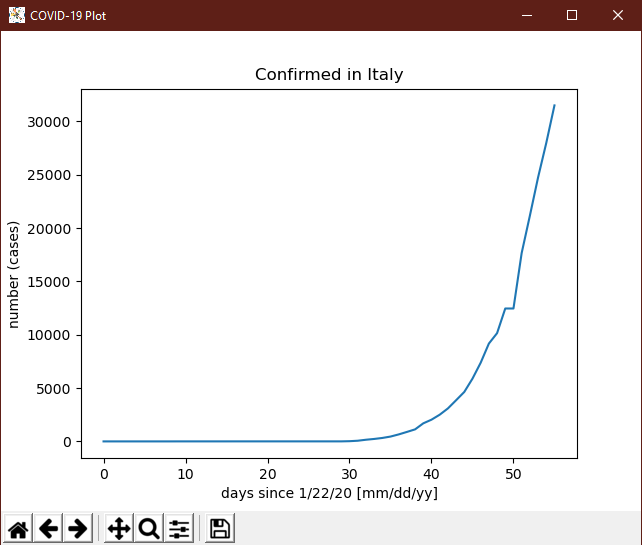
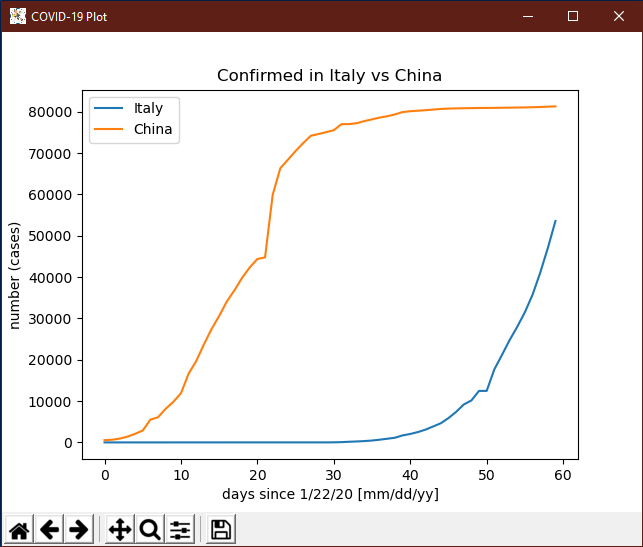
add option to compare countries

diff --git a/covid_plot.py b/covid_plot.py
@@ -9,7 +9,7 @@ path = "csse_covid_19_data/csse_covid_19_time_series/"
 filename = "time_series_19-covid-"
 
 #global vars
-data = []
+data = {}
 header = []
 
 # PARSE USER INPUT
@@ -19,7 +19,7 @@ def parse_user():
         parser.add_argument("-np", "--no-plot", action='store_true', help="do not plot the data")
         parser.add_argument("-l", "--log", action='store_true', help="plot logarithmic axis")
         parser.add_argument("-f", "--file", help="print data to this file")
-        parser.add_argument("-c", "--country", required=True, help="specify country as in data")
+        parser.add_argument("-c", "--country", required=True, action="append", help="specify country as in data. If you provide multiple country flags this will go into comparison mode.")
         parser.add_argument("-p", "--province", default="", help="specify province in the chosen country")
         parser.add_argument("-cy", "--category", default="confirmed", help="specify a category [confirmed, deaths,recovered]")
 
@@ -55,22 +55,28 @@ def get_data(category, country, province):
                 line_count = 0
                 for row in csv_reader:
                         if line_count == 0:
-                                header = row #f"Column names are {', '.join(row)}"
+                                header = row
                         else:
-                                if country.lower() == row[1].lower():
-                                        if province.lower() == "":
-                                                if len(data) == 0:
-                                                        data = row
-                                                        data[0] = ""
-                                                else:
-                                                        i = 4
-                                                        while i < len(row):
-                                                                data[i] = int(data[i]) + int(row[i])
-                                                                i += 1
-                                        elif province.lower() in row[0].lower():
-                                                data = row
-                                                #for row_content in row:
-                                                #print(row_content)
+                                for c in country:
+                                        if c in data:
+                                                data_buffer = data[c]
+                                        else:        
+                                                data_buffer = []
+                                        
+                                        if c.lower() == row[1].lower():
+                                                if province == "":
+                                                        if len(data_buffer) == 0:
+                                                                data_buffer = row
+                                                                data_buffer[0] = ""
+                                                        else:
+                                                                i = 4
+                                                                while i < len(row):
+                                                                        data_buffer[i] = int(data_buffer[i]) + int(row[i])
+                                                                        i += 1
+                                                elif province.lower() in row[0].lower():
+                                                        data_buffer = row
+
+                                                data[c.lower()] = data_buffer
 
                         line_count += 1
 
@@ -83,25 +89,30 @@ def get_data(category, country, province):
 # PRINT ALL (NEW) DATA TO CSV FILE
 def print_file(filepath):
         print("Preparing file...")
-        delta = [] #List with all the changes
-        n = 0 #starts really at 3, the first four entries are region, country, lat/longitude; the fith one is just the start, no delta
-        while n < len(data):
-                if n <= 4:
-                        delta += [""]
-                else:
-                        dN = int(data[n]) - int(data[n-1])
-                        delta += [dN]
-                n += 1
 
-        growth = []
-        n = 0
-        while n < len(data):
-                if n <= 5 or delta[n-1] == 0:
-                        growth += [""]
-                else:
-                        exp = int(delta[n]) / int(delta[n-1])
-                        growth += [exp]
-                n += 1
+        delta = {}
+        growth = {}
+
+        for key in data:
+                delta[key] = [] #List with all the changes
+                n = 0 #starts really at 3, the first four entries are region, country, lat/longitude; the fith one is just the start, no delta
+                while n < len(data[key]):
+                        if n <= 4:
+                                delta[key] += [""]
+                        else:
+                                dN = int(data[key][n]) - int(data[key][n-1])
+                                delta[key] += [dN]
+                        n += 1
+
+                growth[key] = []
+                n = 0
+                while n < len(data[key]):
+                        if n <= 5 or delta[key][n-1] == 0:
+                                growth[key] += [""]
+                        else:
+                                exp = int(delta[key][n]) / int(delta[key][n-1])
+                                growth[key] += [exp]
+                        n += 1
 
         #if data[0] == "":
         #        save_file = data[1].replace(" ", "") + "_" + category + ".csv"
@@ -113,38 +124,56 @@ def print_file(filepath):
         with open(save_file, "w", newline="") as sfile:
                 writer = csv.writer(sfile)
                 writer.writerow(header)
-                writer.writerow(data)
-                writer.writerow(delta)
-                writer.writerow(growth)
+                for key in data:
+                        writer.writerow(data[key])
+                        writer.writerow(delta[key])
+                        writer.writerow(growth[key])
         print(f"Successfully wrote data to {save_file}.")
 
 # PLOT ALL THE COVID DATA
 def plot_data(plot_log, category):
         print("Preparing plot...")
 
-        i = 4
-        plot_data = []
-        while i < len(data):
-                plot_data += [int(data[i])]
+        plt.figure("COVID-19 Plot")
+
+        for key in data:
+                i = 4
+                plot_data = []
+                while i < len(data[key]):
+                        plot_data += [int(data[key][i])]
+                        i += 1
+
+                plt.plot(plot_data, label=f"{key.capitalize()}")
+
+        i = 0
+        string = f"{category} in "
+        for key in data:
+                if i > 0:
+                        string += " vs "
+
+                if data[key][0] == "":
+                        string += f"{key.capitalize()}"
+                else:
+                        string += f"{data[key][0]}, {key.capitalize()}"
                 i += 1
 
-        plt.figure("COVID-19 Plot")
-        plt.plot(plot_data)
-        if data[0] == "":
-                plt.title(f"{category} in {data[1]}")
-        else:
-                plt.title(f"{category} in {data[0]}, {data[1]}")
+        plt.title(string)
 
+        plt.legend()
         plt.xlabel(f"days since {header[4]} [mm/dd/yy]")
         plt.ylabel("number (cases)")
         if plot_log:
                 plt.yscale('log')
         plt.show()
+        
         print("Goodbye.")
 
 def main():
         args = parse_user()
-        #print(args.oof)
+
+        if len(args.country) > 1 and not args.province == "":
+                print("Comparing countries ONLY. Please delete province input.")
+                return
         
         init_repo()
         get_data(args.category.capitalize(), args.country, args.province)

diff --git a/README.md b/README.md
@@ -37,7 +37,8 @@ optional arguments:
   -l, --log             plot logarithmic axis
   -f FILE, --file FILE  print data to this file
   -c COUNTRY, --country COUNTRY
-                        specify country as in data
+                        specify country as in data. If you provide multiple country flags this
+                        will go into comparison mode.
   -p PROVINCE, --province PROVINCE
                         specify province in the chosen country
   -cy CATEGORY, --category CATEGORY
